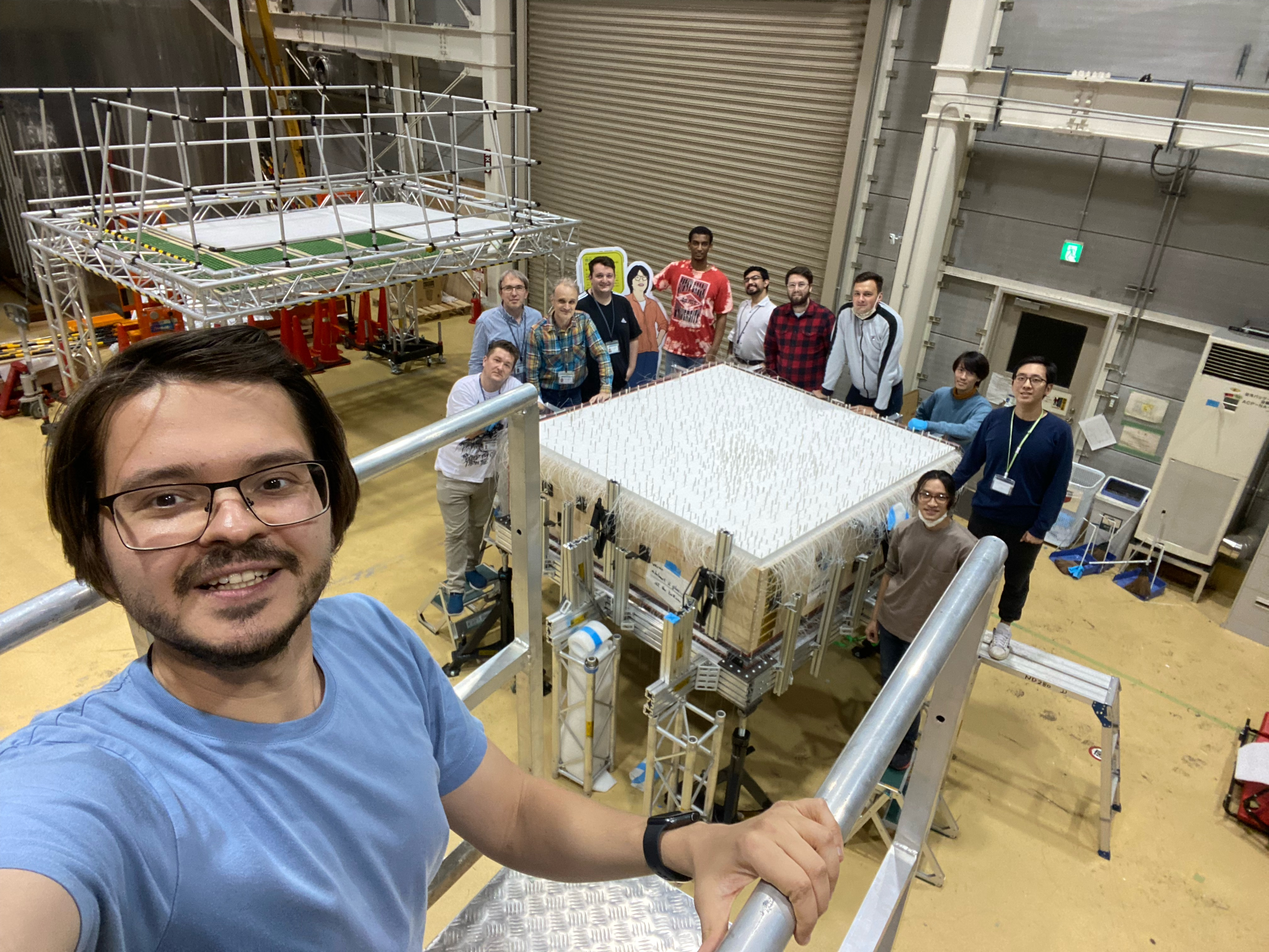
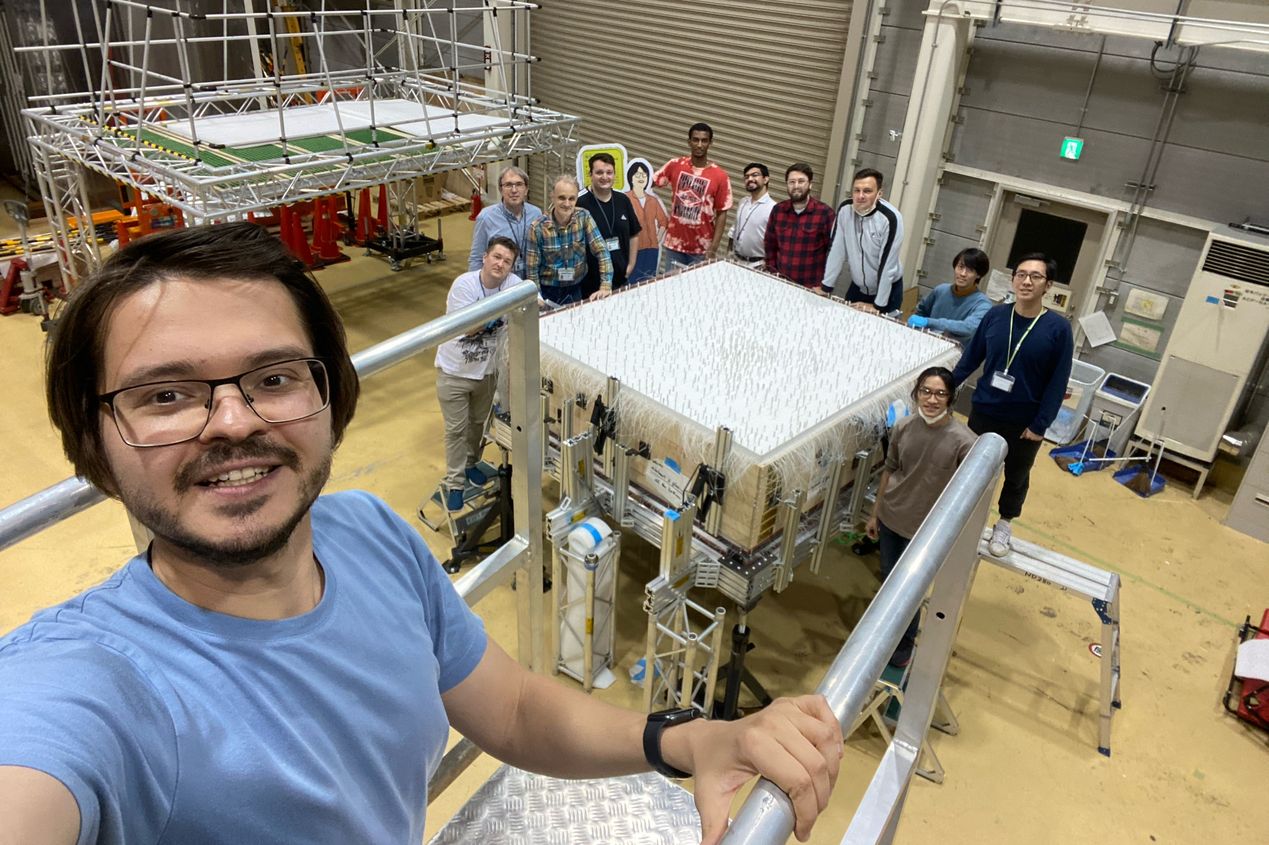
projImage

diff --git a/styles.css b/styles.css
@@ -243,8 +243,8 @@ h1, h2, h3, h4, h5, h6 {
 }
 
 .project-image-container {
-    width: 700px;
-    height: 400px;
+    width: 660px;
+    height: 440px;
     overflow: hidden;
     border-radius: 4px;
     box-shadow: 0 4px 12px rgba(0, 0, 0, 0.15);
